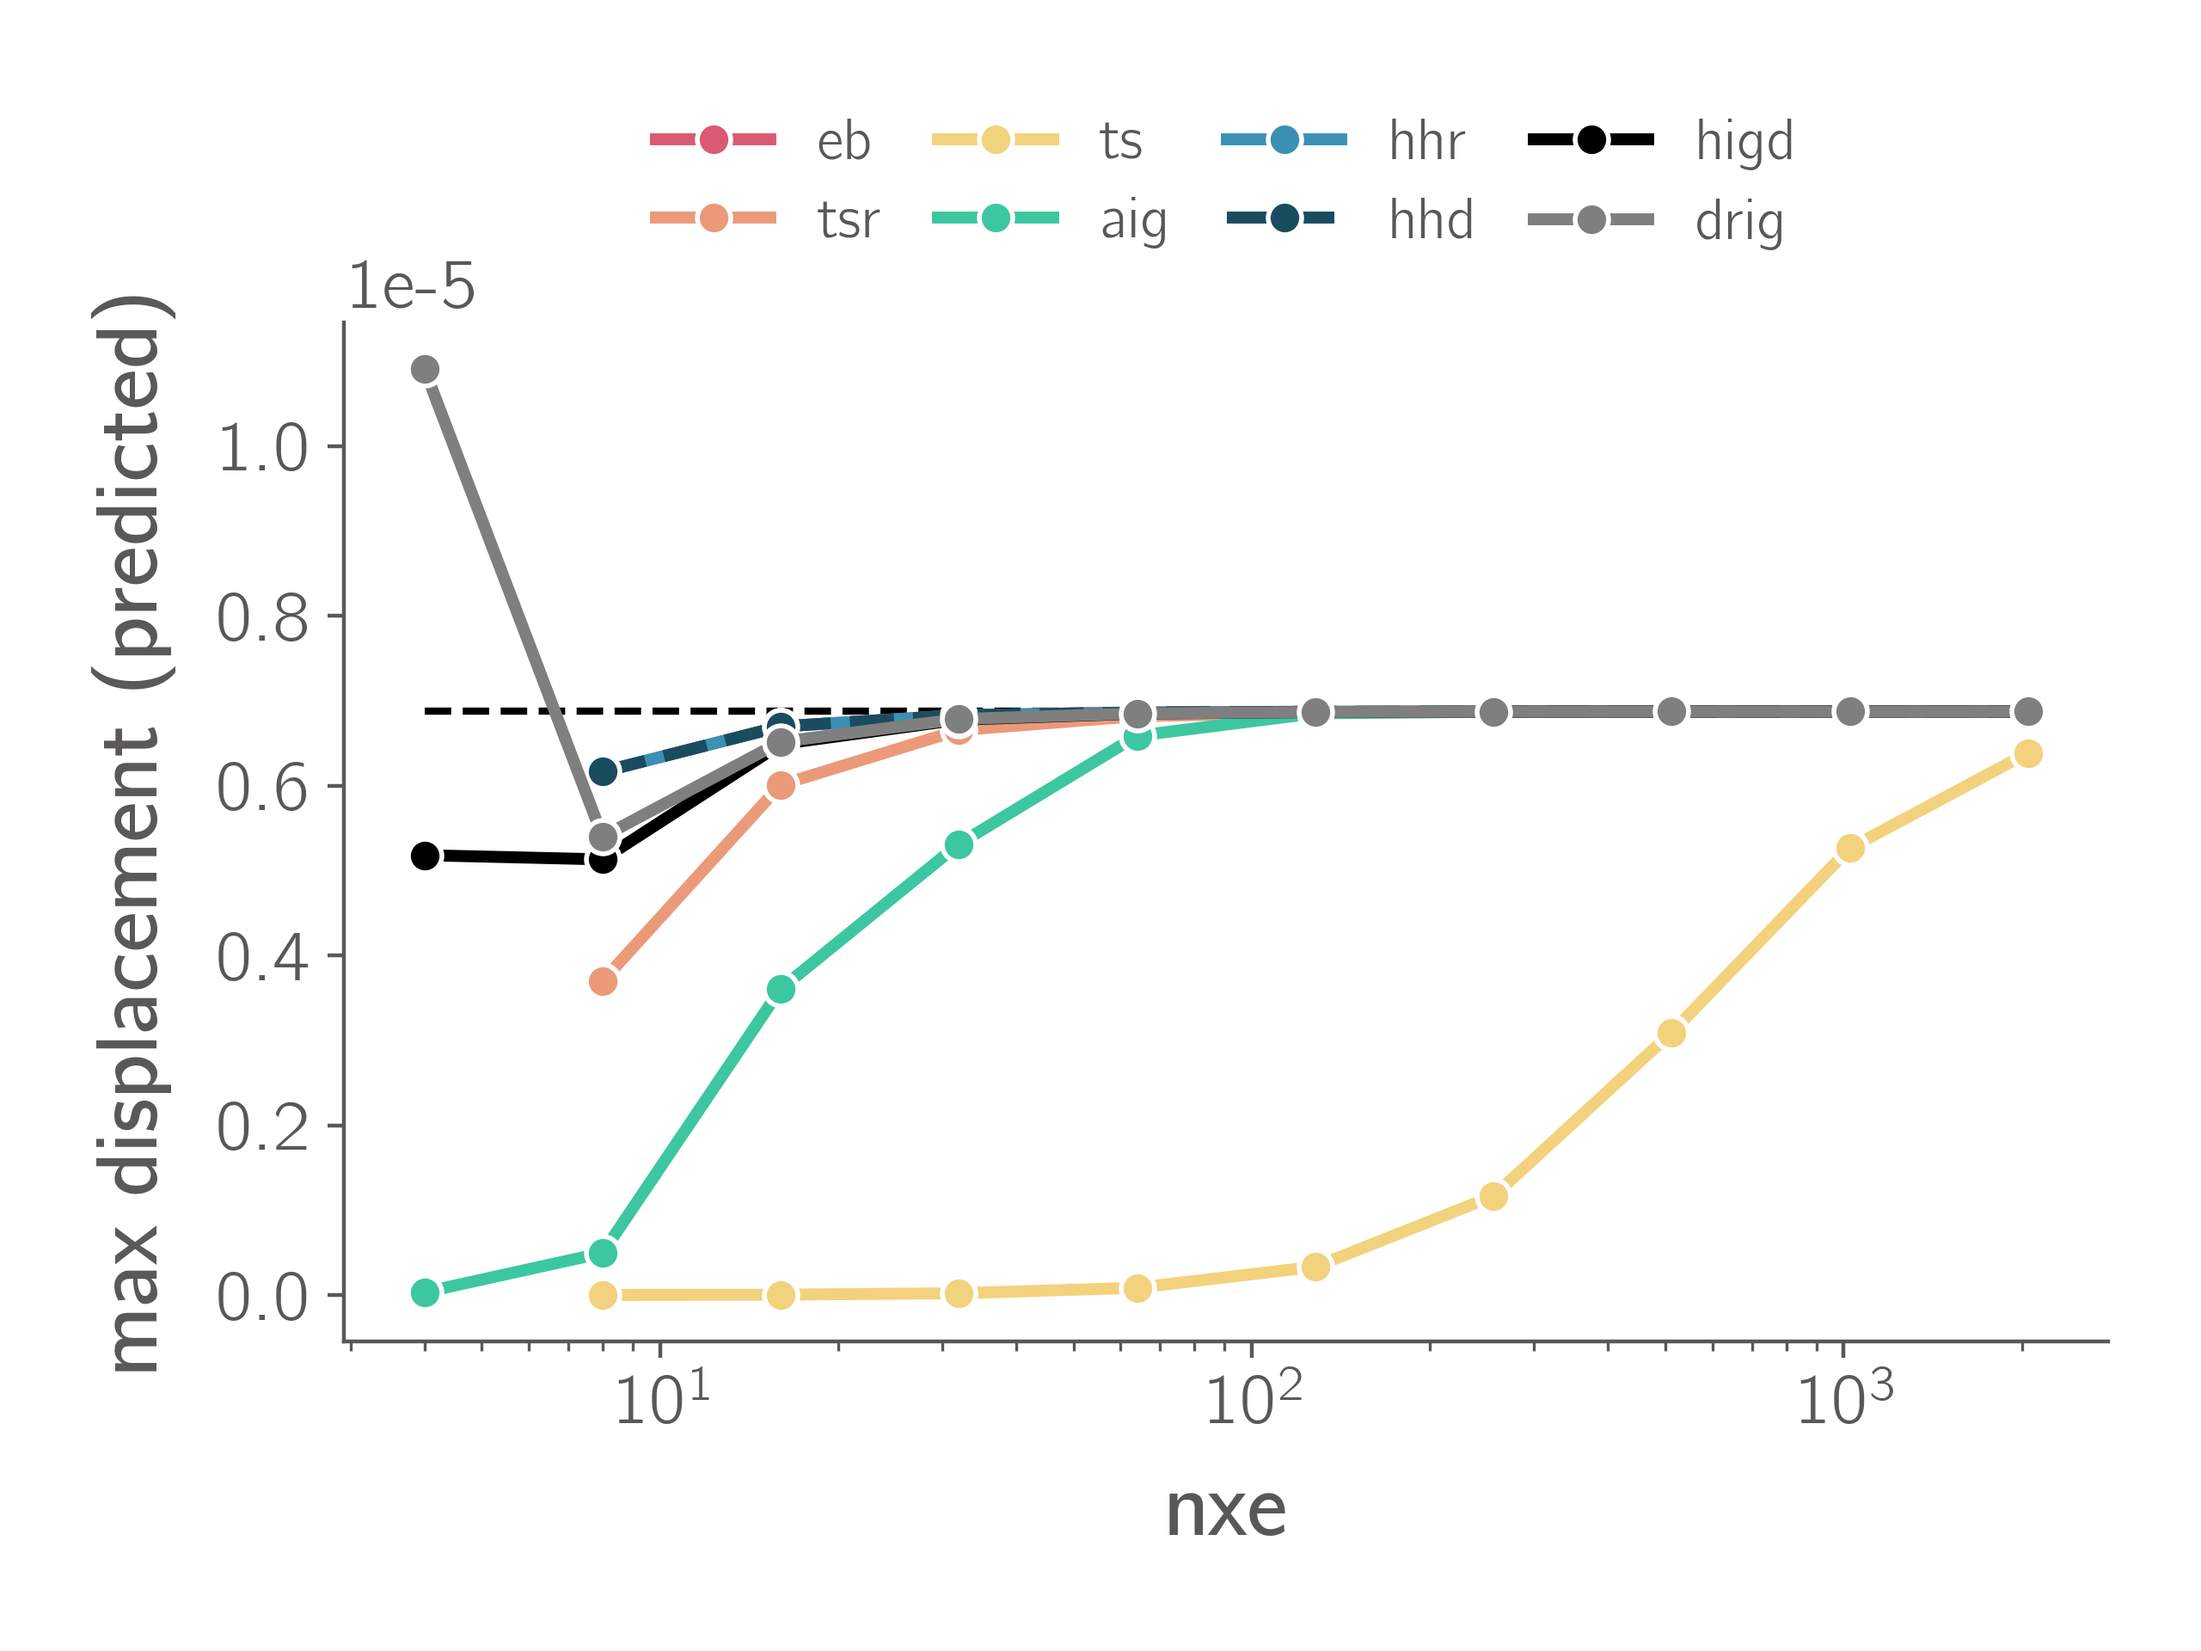
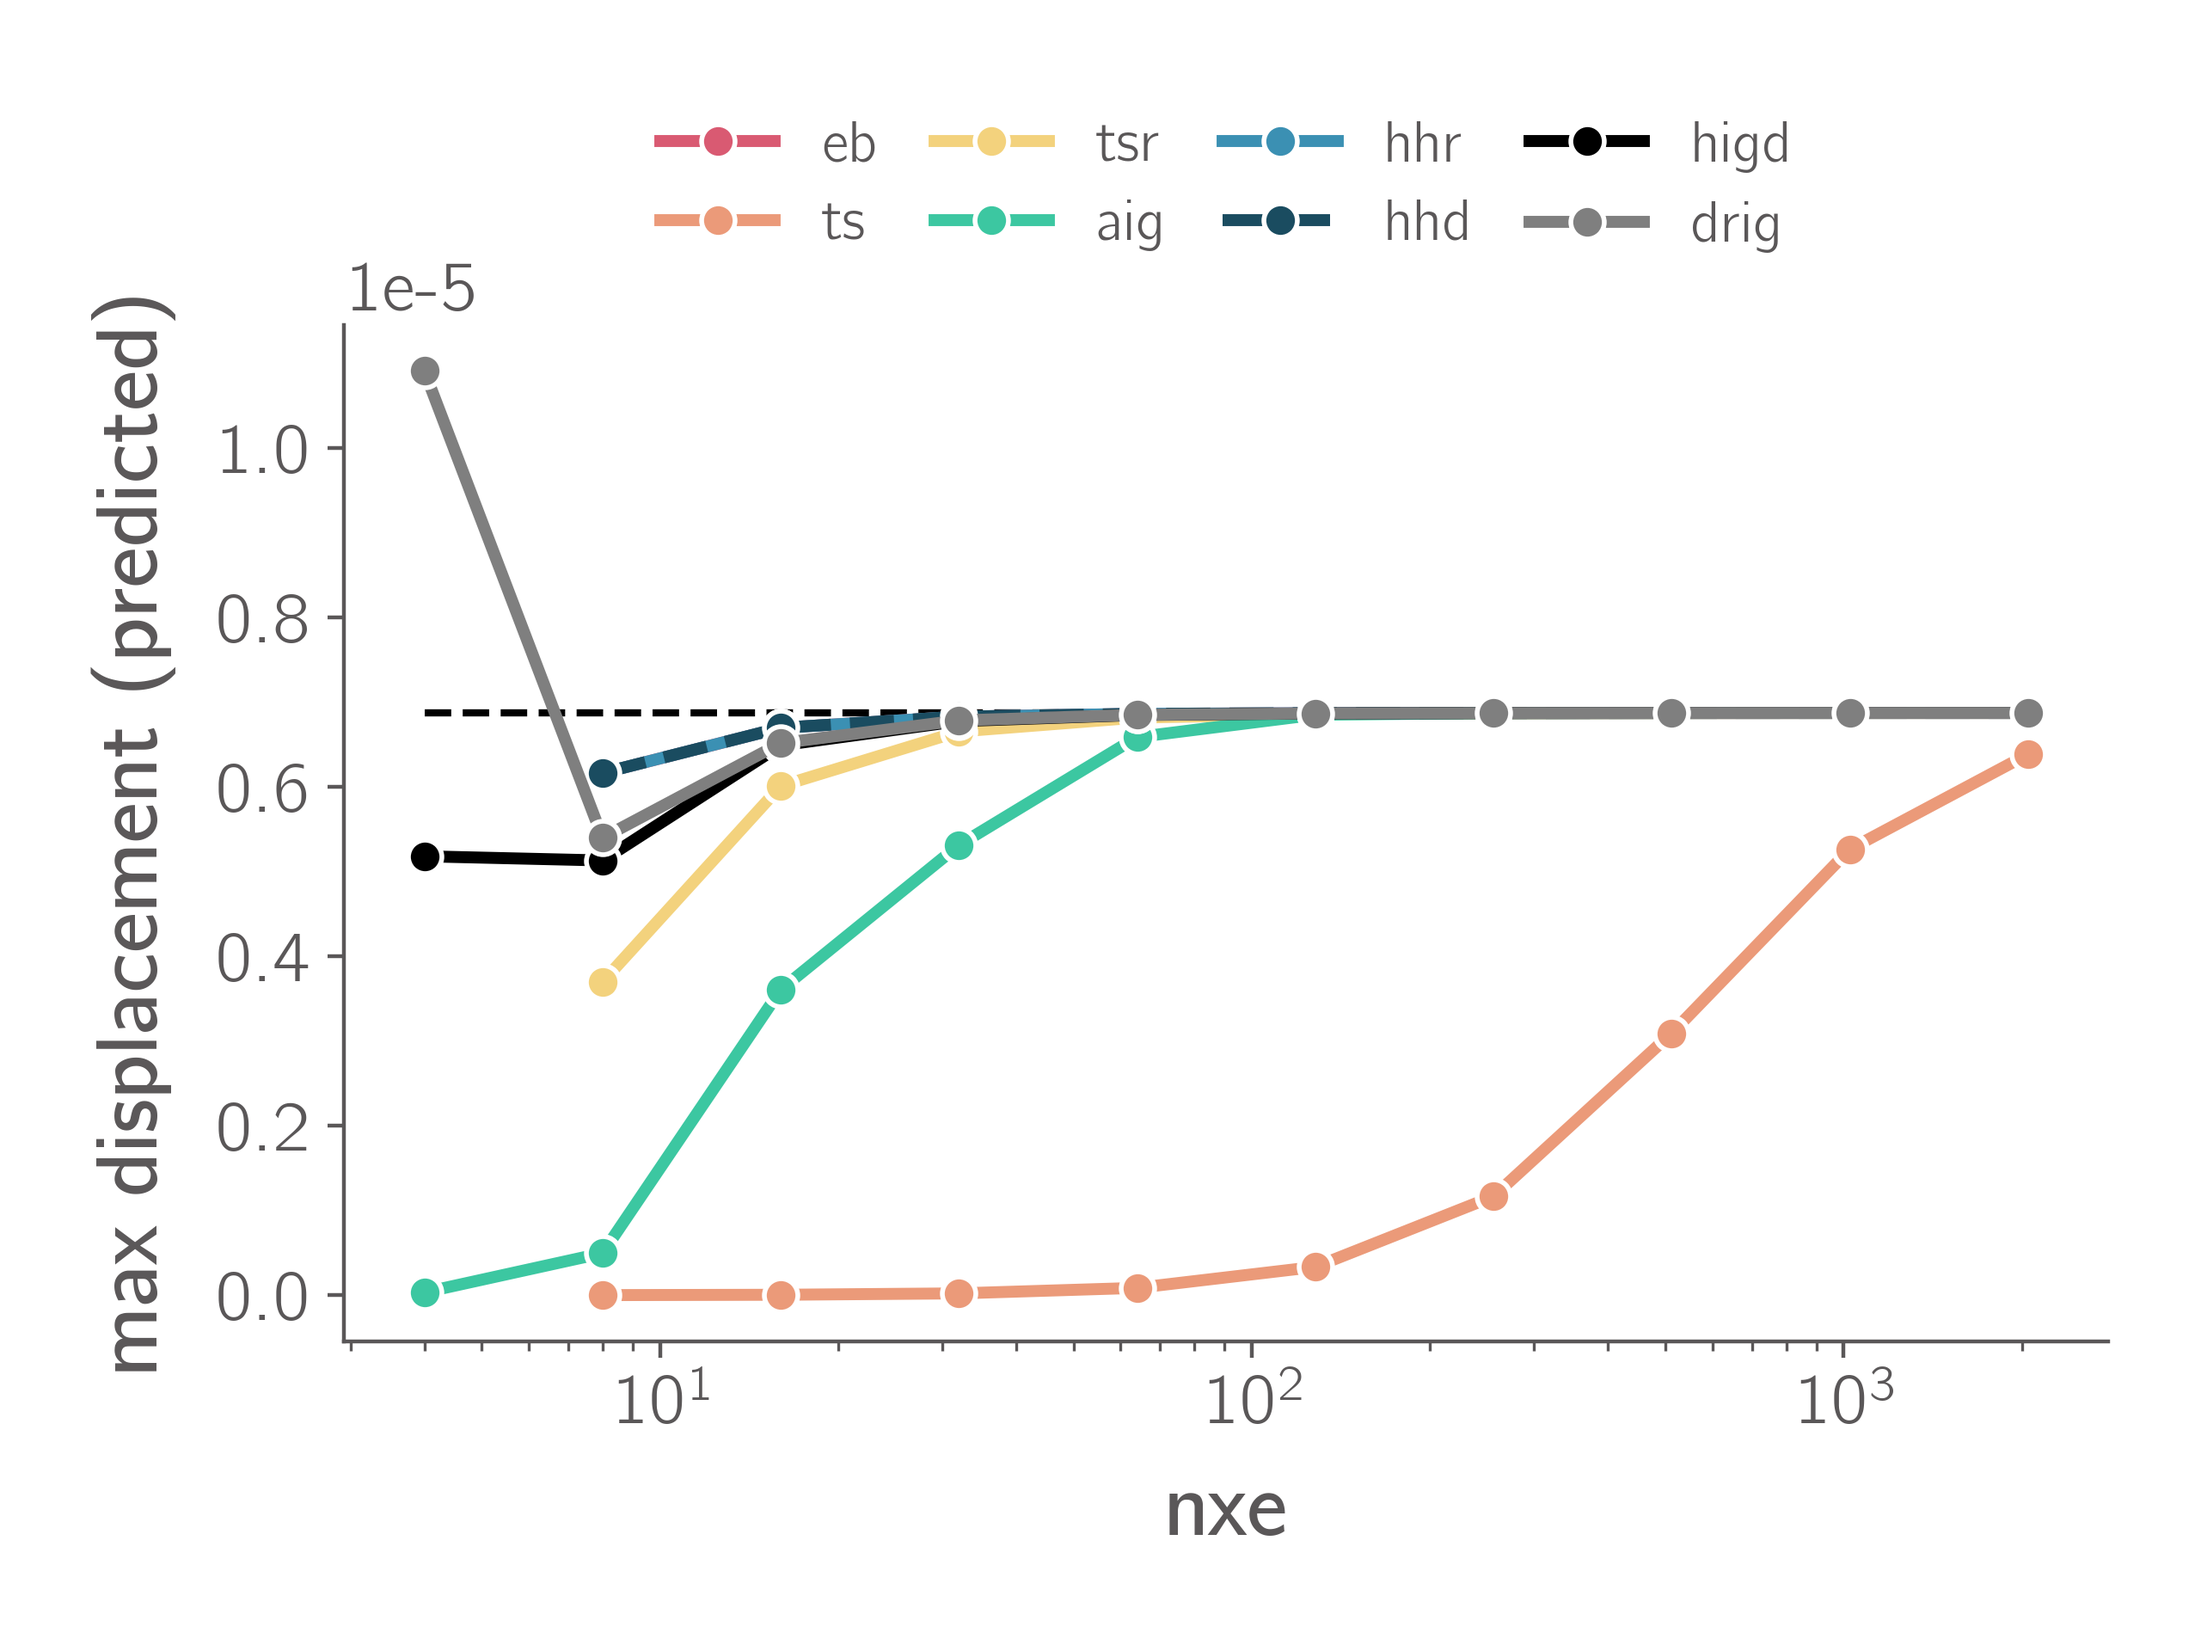
update beam plots

diff --git a/examples/adv_elem/1_beam/4_mesh_conv2.py b/examples/adv_elem/1_beam/4_mesh_conv2.py
@@ -24,7 +24,7 @@ parser = argparse.ArgumentParser()
 parser.add_argument("--thick", type=float, default=1e-3, help="number of elements")
 parser.add_argument("--nxemin", type=int, default=16, help="min # elems multigrid")
 parser.add_argument("--nsmooth", type=int, default=2, help="number of smoothing steps")
-parser.add_argument("--omega", type=float, default=0.9, help="omega smoother coeff (sometimes needs to be lower)")
+parser.add_argument("--omega", type=float, default=0.8, help="omega smoother coeff (sometimes needs to be lower)")
 parser.add_argument("--smoother", type=str, default='asw', help="--smooth : [gs, asw]")
 args = parser.parse_args()
 
@@ -33,7 +33,7 @@ args = parser.parse_args()
 nxe_vec = [4, 8, 16, 32, 64, 128, 256, 512, 1024, 2048]
 # beam_types = ['eb', 'tsr', 'hhd', 'higd']
 # beam_types = ['eb', 'aig', 'ts', 'tsr', 'hhr', 'hhd', 'higd']
-beam_types = ['eb', 'tsr', 'ts', 'aig', 'hhr', 'hhd', 'higd', 'drig']
+beam_types = ['eb', 'ts', 'tsr', 'aig', 'hhr', 'hhd', 'higd', 'drig']
 deflections = {key:[] for key in beam_types}
 
 for nxe in nxe_vec:

diff --git a/examples/adv_elem/1_beam/1_solve.py b/examples/adv_elem/1_beam/1_solve.py
@@ -28,7 +28,7 @@ parser.add_argument("--nxemin", type=int, default=16, help="min # elems multigri
 parser.add_argument("--thick", type=float, default=1e-3, help="number of elements")
 parser.add_argument("--solve", type=str, default='vmg', help="--solve : [direct, vmg, kmg]")
 parser.add_argument("--nsmooth", type=int, default=2, help="number of smoothing steps")
-parser.add_argument("--omega", type=float, default=0.9, help="omega smoother coeff (sometimes needs to be lower)")
+parser.add_argument("--omega", type=float, default=0.8, help="omega smoother coeff (sometimes needs to be lower)")
 parser.add_argument("--smoother", type=str, default='asw', help="--smooth : [gs, asw]")
 parser.add_argument("--plot", action=argparse.BooleanOptionalAction, default=False, help="Plot matrices and residual")
 parser.add_argument("--debug", action=argparse.BooleanOptionalAction, default=False, help="run debug codes")

diff --git a/examples/adv_elem/1_beam/2_thick_perf.py b/examples/adv_elem/1_beam/2_thick_perf.py
@@ -26,7 +26,7 @@ parser.add_argument("--nxe", type=int, default=128, help="number of elements")
 parser.add_argument("--thick", type=float, default=1e-3, help="number of elements")
 parser.add_argument("--nxemin", type=int, default=16, help="min # elems multigrid")
 parser.add_argument("--nsmooth", type=int, default=1, help="number of smoothing steps")
-parser.add_argument("--omega", type=float, default=0.9, help="omega smoother coeff (sometimes needs to be lower)")
+parser.add_argument("--omega", type=float, default=0.8, help="omega smoother coeff (sometimes needs to be lower)")
 parser.add_argument("--smoother", type=str, default='asw', help="--smooth : [gs, asw]")
 args = parser.parse_args()
 

diff --git a/examples/adv_elem/1_beam/3_mesh_conv.py b/examples/adv_elem/1_beam/3_mesh_conv.py
@@ -24,7 +24,7 @@ parser = argparse.ArgumentParser()
 parser.add_argument("--thick", type=float, default=1e-3, help="number of elements")
 parser.add_argument("--nxemin", type=int, default=16, help="min # elems multigrid")
 parser.add_argument("--nsmooth", type=int, default=2, help="number of smoothing steps")
-parser.add_argument("--omega", type=float, default=0.9, help="omega smoother coeff (sometimes needs to be lower)")
+parser.add_argument("--omega", type=float, default=0.8, help="omega smoother coeff (sometimes needs to be lower)")
 parser.add_argument("--smoother", type=str, default='asw', help="--smooth : [gs, asw]")
 args = parser.parse_args()
 
